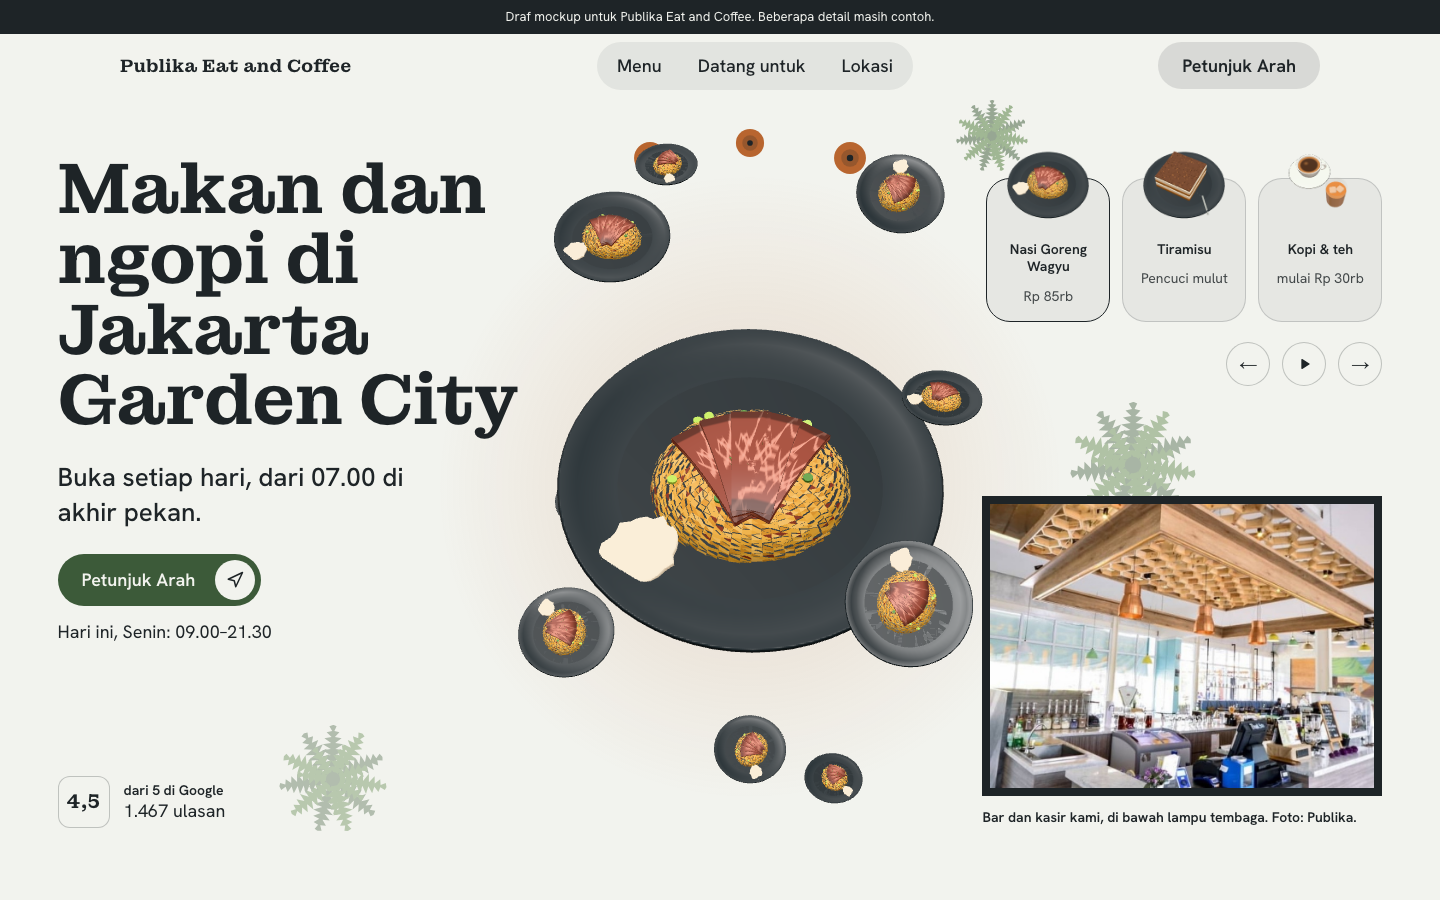
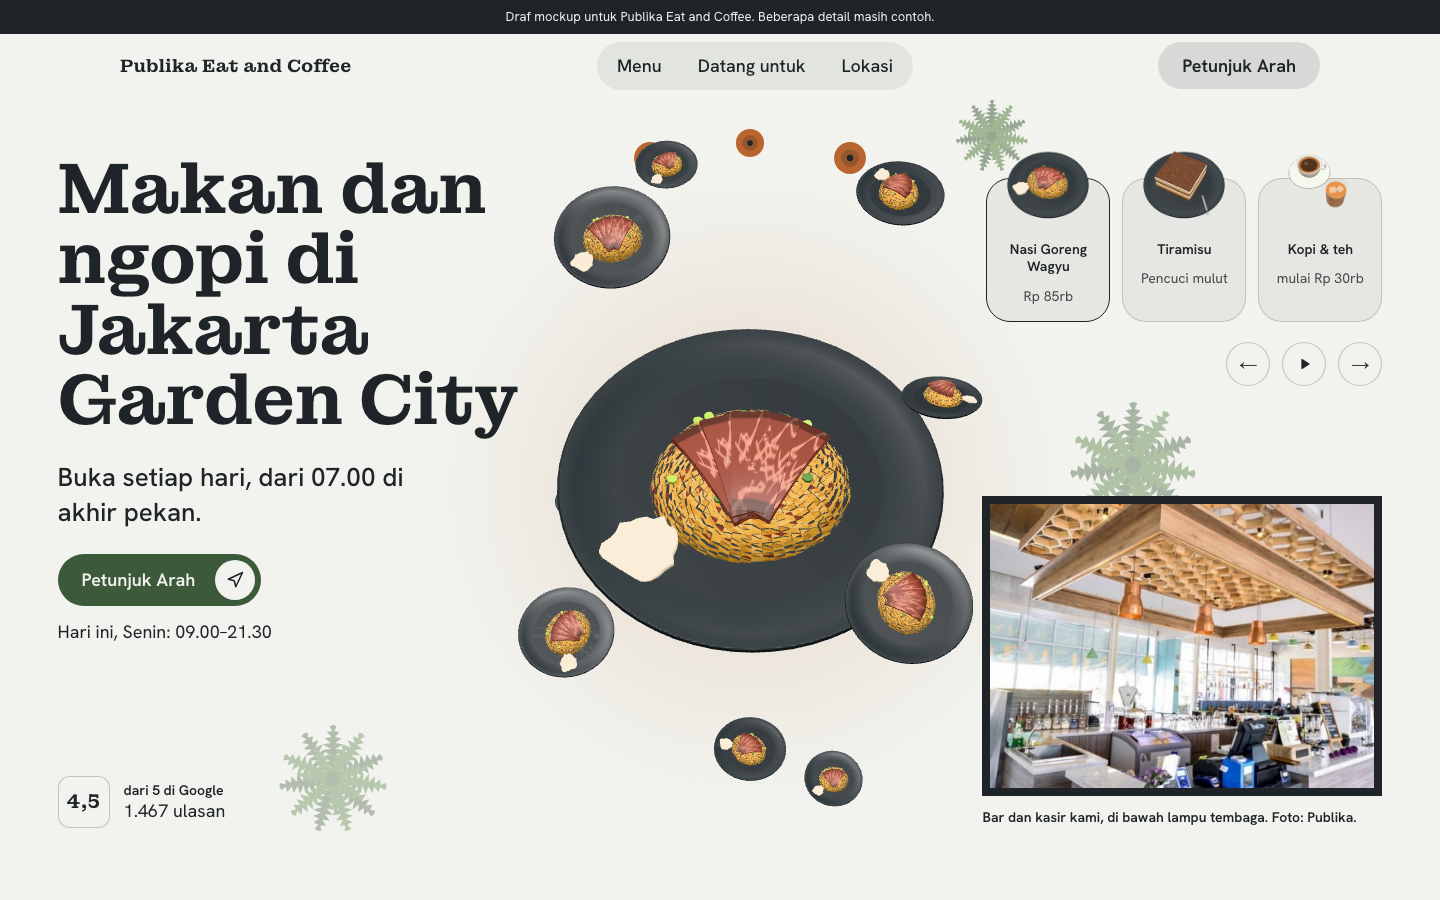
ko

diff --git a/shops/publika-eat-and-coffee/site/components/SodaHero.tsx b/shops/publika-eat-and-coffee/site/components/SodaHero.tsx
@@ -7,7 +7,10 @@
 // switch it by hand: the big dish spins twice and swaps at the peak, the small ones implode to the
 // centre, swap and burst back out, and the ground (hero and header) moves between tile, timber and
 // fern. The 3D models (lib/soda3d) follow DOM anchors that carry all of that motion; without WebGL
-// the anchors' own flat drawings show instead. Reduced motion: still, no cycling, instant switch.
+// the anchors' own flat drawings show instead. Phones have no cursor, so there the tilt follows
+// the phone itself (device orientation; iPhones ask for motion access first, through a button), a
+// sideways drag on the dish, or, with neither, a slow sway, so the dish still reads as 3D.
+// Reduced motion: still, no cycling, instant switch.
 import { useEffect, useRef, useState, type CSSProperties } from "react";
 import Image from "next/image";
 import { gsap } from "@/lib/gsap";
@@ -76,6 +79,7 @@ type Live = {
   cur: { x: number; y: number };
   inView: boolean;
   hover: boolean;
+  touch: boolean; // a phone or tablet: no cursor, so tilt comes from the phone, a drag or a sway
 };
 
 export default function SodaHero() {
@@ -99,7 +103,11 @@ export default function SodaHero() {
     cur: { x: 0, y: 0 },
     inView: true,
     hover: false,
+    touch: false,
   });
+  // iPhones only report motion after the visitor allows it, from a tap: the button asks
+  const [askMotion, setAskMotion] = useState(false);
+  const enableMotionRef = useRef<(() => void) | null>(null);
 
   // where every dish is right now, for the 3D scene
   const frame = (): SodaFrame | null => {
@@ -121,8 +129,8 @@ export default function SodaHero() {
         y: br.top + br.height / 2 - S.top,
         size: bob.offsetWidth,
         z: 0,
-        tilt: 1.0 - L.cur.y * 0.4,
-        yaw: L.cur.x * 0.55,
+        tilt: 1.0 - L.cur.y * (L.touch ? 0.6 : 0.4),
+        yaw: L.cur.x * (L.touch ? 0.85 : 0.55),
         spin: (L.spin.val * Math.PI) / 180,
         visible: true,
       },
@@ -167,13 +175,68 @@ export default function SodaHero() {
     if (prefersReducedMotion()) return;
 
     const mouse = { x: 0, y: 0, px: -9999, py: -9999 };
+    const clamp = (v: number, lo: number, hi: number) => Math.min(hi, Math.max(lo, v));
+    L.touch = window.matchMedia("(hover: none) and (pointer: coarse)").matches;
+    // the phone's own tilt, relative to how it is being held (that baseline re-centres slowly)
+    const phone = { x: 0, y: 0, at: -1e9, bx: NaN, by: 0 };
+    const onOrient = (e: DeviceOrientationEvent) => {
+      if (e.beta == null || e.gamma == null) return;
+      const angle = screen.orientation?.angle ?? 0;
+      let x = e.gamma;
+      let y = e.beta;
+      if (angle === 90) [x, y] = [e.beta, -e.gamma];
+      else if (angle === 270 || angle === -90) [x, y] = [-e.beta, e.gamma];
+      if (Number.isNaN(phone.bx)) [phone.bx, phone.by] = [x, y];
+      phone.bx += (x - phone.bx) * 0.003;
+      phone.by += (y - phone.by) * 0.003;
+      phone.x = clamp((x - phone.bx) / 30, -0.5, 0.5);
+      phone.y = clamp((y - phone.by) / 30, -0.5, 0.5);
+      phone.at = performance.now();
+      setAskMotion(false); // it is reporting: no need to ask
+    };
+    // a sideways drag on the dish turns it; the stage lets vertical swipes scroll the page
+    const drag = { on: false, id: -1, x0: 0, x: 0 };
+    const onDown = (e: PointerEvent) => {
+      if (e.pointerType === "mouse") return;
+      Object.assign(drag, { on: true, id: e.pointerId, x0: e.clientX, x: 0 });
+      mouse.px = e.clientX;
+      mouse.py = e.clientY;
+    };
+    const onUp = (e: PointerEvent) => {
+      if (e.pointerId !== drag.id) return;
+      drag.on = false;
+      mouse.px = mouse.py = -9999;
+    };
     const onMove = (e: PointerEvent) => {
-      if (e.pointerType === "touch") return;
+      if (e.pointerType !== "mouse") {
+        if (!drag.on || e.pointerId !== drag.id) return;
+        drag.x = clamp((e.clientX - drag.x0) / (stage.clientWidth / 2 || 1), -0.5, 0.5);
+        mouse.px = e.clientX; // the small dishes move away from the finger too
+        mouse.py = e.clientY;
+        return;
+      }
       mouse.x = e.clientX / window.innerWidth - 0.5;
       mouse.y = e.clientY / window.innerHeight - 0.5;
       mouse.px = e.clientX;
       mouse.py = e.clientY;
     };
+    // The motion API only exists on secure pages (https or localhost) in browsers that have it:
+    // over plain http on a LAN, Chrome leaves DeviceOrientationEvent undefined. Without it the
+    // phone still gets the drag and the sway.
+    const DOE = (window as unknown as { DeviceOrientationEvent?: { requestPermission?: () => Promise<string> } }).DeviceOrientationEvent;
+    if (DOE) window.addEventListener("deviceorientation", onOrient);
+    const perm = DOE?.requestPermission;
+    let askTimer = 0;
+    if (L.touch && DOE && typeof perm === "function" && window.isSecureContext) {
+      // Chrome on Android has requestPermission too but reports motion at once: only ask if the
+      // phone stays silent for a moment (that is an iPhone waiting for a tap)
+      askTimer = window.setTimeout(() => {
+        if (phone.at < 0) setAskMotion(true);
+      }, 700);
+      enableMotionRef.current = () => {
+        perm.call(DOE).catch(() => "denied").finally(() => setAskMotion(false));
+      };
+    }
     const io = new IntersectionObserver(([e]) => {
       L.inView = e.isIntersecting;
     });
@@ -183,6 +246,12 @@ export default function SodaHero() {
       if (!L.inView) return;
       const time = performance.now() / 1000;
       const cur = L.cur;
+      if (L.touch) {
+        // drag wins, then the phone's tilt while it is reporting, else a slow sway
+        const live = time * 1000 - phone.at < 1000;
+        mouse.x = drag.on ? drag.x : live ? phone.x : Math.sin(time * 0.6) * 0.3;
+        mouse.y = drag.on ? 0 : live ? phone.y : Math.sin(time * 0.43 + 1) * 0.14;
+      }
       cur.x += (mouse.x - cur.x) * 0.05;
       cur.y += (mouse.y - cur.y) * 0.05;
       tilt.style.transform = `rotateX(${(-cur.y * 20).toFixed(2)}deg) rotateY(${(cur.x * 28).toFixed(2)}deg) rotate(${L.spin.val.toFixed(2)}deg)`;
@@ -223,10 +292,19 @@ export default function SodaHero() {
       draw();
     };
     window.addEventListener("pointermove", onMove, { passive: true });
+    stage.addEventListener("pointerdown", onDown);
+    window.addEventListener("pointerup", onUp);
+    window.addEventListener("pointercancel", onUp);
     gsap.ticker.add(tick);
     return () => {
       gsap.ticker.remove(tick);
       window.removeEventListener("pointermove", onMove);
+      if (DOE) window.removeEventListener("deviceorientation", onOrient);
+      stage.removeEventListener("pointerdown", onDown);
+      window.removeEventListener("pointerup", onUp);
+      window.removeEventListener("pointercancel", onUp);
+      enableMotionRef.current = null;
+      clearTimeout(askTimer);
       io.disconnect();
     };
     // eslint-disable-next-line react-hooks/exhaustive-deps
@@ -507,6 +585,15 @@ export default function SodaHero() {
               </div>
             </div>
           </div>
+          {askMotion && (
+            <button type="button" className="soda-motion" onClick={() => enableMotionRef.current?.()}>
+              <svg viewBox="0 0 24 24" width="18" height="18" fill="none" stroke="currentColor" strokeWidth="1.8" strokeLinecap="round" strokeLinejoin="round" aria-hidden="true" focusable="false">
+                <rect x="7" y="2.5" width="10" height="19" rx="2.5" />
+                <path d="M3 9.5a9 9 0 0 0 0 5M21 9.5a9 9 0 0 1 0 5" />
+              </svg>
+              Gerakkan hidangan dengan HP
+            </button>
+          )}
           <div className="soda-layer soda-front" aria-hidden="true">
             {FRONT.map((f, i) => (
               <div key={i} className={`soda-item soda-dish${f.phone === false ? " no-phone" : ""}`} style={item(f.x, f.y, f.s)}>

diff --git a/shops/publika-eat-and-coffee/site/app/globals.css b/shops/publika-eat-and-coffee/site/app/globals.css
@@ -216,7 +216,16 @@ body {
 img.soda-card-art { object-fit: contain; }
 
 /* the stage: the big dish and everything that floats around it */
-.soda-stage { position: relative; z-index: 1; height: clamp(320px, 84vw, 440px); --k: 0.55; }
+.soda-stage { position: relative; z-index: 1; height: clamp(320px, 84vw, 440px); --k: 0.55; touch-action: pan-y; }
+/* iPhones: the one tap that lets the dish follow the phone */
+.soda-motion {
+  position: absolute; z-index: 4; left: 50%; bottom: 0; transform: translateX(-50%);
+  display: inline-flex; align-items: center; gap: 8px; min-height: 44px; padding: 8px 18px; border-radius: 999px;
+  font: 600 var(--step-small)/1.2 var(--font-body); color: var(--soda-ink); white-space: nowrap; cursor: pointer;
+  background: var(--soda-bg); border: 1px solid color-mix(in oklab, currentColor 40%, transparent);
+  transition: background-color 250ms ease-out;
+}
+.soda-motion:active { transform: translateX(-50%) scale(0.98); }
 .soda-layer { position: absolute; inset: 0; pointer-events: none; }
 .soda-far { z-index: 0; } .soda-back { z-index: 1; } .soda-centre { z-index: 2; } .soda-front { z-index: 3; }
 .soda-item {
